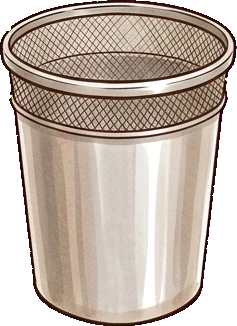
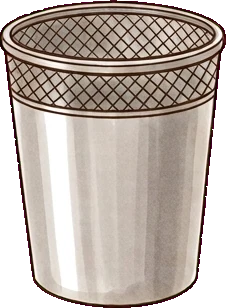
Object ve DEP chinh dien - het lech phoi canh
Kent: "no lech banh chanh luon, prompt bro gen anh co van de do". Dung:
prompt cu bao "cung goc nhin, chuc xuong 15 do" nen moi mon van co diem
tu rieng, rap vo la venh.

ob_sheet.py doi han brief: moi mon la hinh CAT GIAY - chinh dien thuan,
KHONG phoi canh, khong diem tu, khong thay mat tren. Mat ban prep thi
nhin thang TU TREN xuong, la mot mang phang.

Bo cuc xep lai theo kieu 2D: quay sau la mot dai ngang, noi/bon/bep
DUNG TREN mep quay (day = 40%), mat ban rap to phu nua duoi.

151 test xanh.

Claude-Session: https://claude.ai/code/session_014awNcPnGks6S8UpACG9mkS

diff --git a/src/data/scene-graph.js b/src/data/scene-graph.js
@@ -25,19 +25,21 @@ export const OB = 'art/ob/';
  *             không phải cả cái nồi. Bỏ trống = cả object.
  */
 export const KITCHEN = [
-  // Object GEN RIÊNG (scripts/ob_sheet.py — cả bộ vẽ trong một bản để chung góc, chung hướng sáng),
-  // KHÔNG còn cắt ra từ tranh bếp cũ. Vị trí do mình đặt, không phải đo theo tranh:
-  //   x, y, w, h = % khung · h tính theo đúng tỉ lệ ảnh để không bị méo
-  //   hit = ô thả nằm trong object (%, so với chính nó): chỉ lòng nồi / lòng bồn / mặt bếp mới nhận thả
-  { id: 'counter-back', art: `${OB}counter-back.webp`, layer: 'mid', x: -2, y: 41, w: 104, h: 36.1 },
-  { id: 'pot-blanch', art: `${OB}pot-blanch.webp`, layer: 'mid', x: 4, y: 25.5, w: 30, h: 18.1,
-    zone: 'pot', hit: { x: 14, y: 6, w: 72, h: 55 } },
-  { id: 'sink', art: `${OB}sink.webp`, layer: 'mid', x: 36, y: 25.5, w: 22, h: 18.6,
-    zone: 'sink', hit: { x: 10, y: 30, w: 80, h: 45 } },
-  { id: 'stove', art: `${OB}stove.webp`, layer: 'mid', x: 55, y: 26.5, w: 44, h: 16.9,
-    zone: 'burner', hit: { x: 8, y: 15, w: 60, h: 60 } },
-  // Mặt bàn ráp tô: nhìn từ TRÊN xuống (Kent: "ví dụ bàn prep đi"), không phải cái hộp nhìn nghiêng.
-  { id: 'prep-top', art: `${OB}prep-top.webp`, layer: 'fg', x: -9, y: 57, w: 118, h: 45.9 },
+  // Object GEN RIÊNG, vẽ DẸP CHÍNH DIỆN như hình cắt giấy (scripts/ob_sheet.py):
+  // cả bộ vẽ trong một bản, KHÔNG phối cảnh, không điểm tụ — nên ráp kiểu gì cũng khớp.
+  // Kent 21/09: "nó lệch banh chành luôn, prompt bro gen ảnh có vấn đề đó" — đúng, bản trước
+  // mỗi món một phối cảnh riêng nên ráp vô là vênh.
+  //   x, y, w, h = % khung · hit = ô thả nằm trong object (%, so với chính nó)
+  { id: 'counter-back', art: `${OB}counter-back.webp`, layer: 'mid', x: -2, y: 40, w: 104, h: 26 },
+  // Nồi trụng, bồn, bếp ĐỨNG TRÊN mặt quầy sau: đáy của chúng = mép trên quầy (40%).
+  { id: 'pot-blanch', art: `${OB}pot-blanch.webp`, layer: 'mid', x: 4, y: 26, w: 30, h: 14,
+    zone: 'pot', hit: { x: 8, y: 14, w: 84, h: 62 } },
+  { id: 'sink', art: `${OB}sink.webp`, layer: 'mid', x: 36, y: 25.5, w: 22, h: 14.5,
+    zone: 'sink', hit: { x: 6, y: 18, w: 88, h: 60 } },
+  { id: 'stove', art: `${OB}stove.webp`, layer: 'mid', x: 58, y: 30, w: 40, h: 10,
+    zone: 'burner', hit: { x: 4, y: 5, w: 60, h: 90 } },
+  // Mặt bàn ráp tô: nhìn TỪ TRÊN XUỐNG, một mảng phẳng (Kent: "ví dụ bàn prep đi").
+  { id: 'prep-top', art: `${OB}prep-top.webp`, layer: 'fg', x: -6, y: 56, w: 112, h: 44 },
 ];
 
 /** Bản gỗ: cùng bộ object, đổi chất liệu hai mặt bàn — cho Huế, Chợ Lớn, Lã Vọng… */

diff --git a/public/sw.js b/public/sw.js
@@ -1,5 +1,5 @@
 // Quán Bún PWA — cache-first cho tài nguyên build (tên file có hash), network-first cho trang; mở offline được sau lần tải đầu.
-const VERSION = 'qb-' + (self.registration ? self.registration.scope : '') + '-v98';
+const VERSION = 'qb-' + (self.registration ? self.registration.scope : '') + '-v99';
 const CORE = ['./', './index.html', './manifest.webmanifest', './icon-192.png', './icon-512.png'];
 self.addEventListener('install', (e) => { e.waitUntil(caches.open(VERSION).then((c) => c.addAll(CORE)).then(() => self.skipWaiting())); });
 self.addEventListener('activate', (e) => { e.waitUntil(caches.keys().then((ks) => Promise.all(ks.filter((k) => k !== VERSION).map((k) => caches.delete(k)))).then(() => self.clients.claim())); });

diff --git a/scripts/ob_sheet.py b/scripts/ob_sheet.py
@@ -13,36 +13,46 @@ PUB = os.path.join(R, "public", "art", "ob"); os.makedirs(PUB, exist_ok=True)
 ST  = os.path.join(R, "_sheet_status.json")
 
 # Goc nhin + net ve: PHAI giong het nhau o moi ban ve thi rap moi khop
-VIEW = ("Everything is drawn from exactly the same viewpoint: a cook standing at a kitchen counter, "
-        "looking straight ahead and slightly down, about fifteen degrees, no wide-angle distortion. "
-        "Light always comes from the upper left, soft. "
-        "Ink line art with warm marker and watercolour wash, brown ink outline, hand-drawn illustration, "
-        "flat even colours, no heavy shading. ")
-BG = ("The background is a flat solid MAGENTA #FF00FF and nothing else: no floor, no wall, no table, no shadow "
+VIEW = ("EVERY object is drawn completely FLAT and STRAIGHT ON, like a cut-paper prop for a 2D side-view game: "
+        "a pure front elevation, NO perspective, NO vanishing point, no three-quarter view, no receding side, "
+        "no visible top surface, nothing turned at an angle. Imagine each object pressed flat against the page "
+        "like a paper cut-out or a sticker. Light comes from the upper left, soft, no cast shadow. "
+        "Ink line art with warm marker and watercolour wash, brown ink outline, flat even colours, no heavy shading. ")
+BG = ("Never write anything: no numbers, no labels, no captions, no letters. "
+      "The background is a flat solid MAGENTA #FF00FF and nothing else: no floor, no wall, no table, no shadow "
       "on the magenta, no frame, no text, no labels, no numbers, no people, no hands. "
       "Every object floats separately with clear magenta space all around it, nothing touching or overlapping.")
 
 SHEETS = {
  # ten sheet: (aspect, so cot, danh sach (ten object, mo ta))
  "kit": ("IMAGE_ASPECT_RATIO_SQUARE", 3, [
-   ("pot-blanch", "a tall wide aluminium stock pot with two side handles, full of water, standing on a low black gas ring"),
-   ("sink", "a small square stainless steel sink with a tall curved chrome tap, on a plain metal cabinet"),
-   ("stove", "a black four-burner gas stove top with round cast-iron grates and four control knobs at the front"),
-   ("trash", "a round brushed metal kitchen bin with a mesh rim, empty"),
-   ("bowl-stack", "a neat stack of eight plain white ceramic noodle bowls"),
-   ("noodle-tray", "a rectangular stainless steel tray holding a coil of fresh white rice noodles"),
+   ("pot-blanch", "a tall wide aluminium stock pot with two side handles, seen from the front, the water surface showing as a simple flat oval at the top"),
+   ("sink", "a stainless steel sink unit seen from the front: a plain metal cabinet with a square basin in its top, the basin shown as a simple flat rectangle, and a tall curved chrome tap behind it"),
+   ("stove", "a black gas stove seen from the front: a flat black panel with four round cast-iron burner grates shown as plain circles in a row, and four control knobs below them"),
+   ("trash", "a round brushed metal kitchen bin with a mesh rim, seen from the front, its opening shown as a simple flat ellipse"),
+   ("bowl-stack", "a neat stack of eight plain white ceramic noodle bowls seen from the front, straight on"),
+   ("noodle-tray", "a rectangular stainless steel tray holding a coil of fresh white rice noodles, seen from the front, the tray shown as a plain rectangle"),
  ]),
  "furni": ("IMAGE_ASPECT_RATIO_PORTRAIT", 1, [
-   ("counter-back", "a long straight stainless steel back counter, seen straight on, with three plain metal cabinet doors under it and an empty flat top"),
-   ("counter-front", "a long straight pale cream stone work counter, seen straight on and slightly from above, completely empty, with a plain wooden front panel"),
+   ("counter-back", "a long low stainless steel counter seen dead straight on as a plain wide rectangle: three plain metal cabinet doors in a row and a thin darker strip along the top edge, nothing else"),
+   ("counter-front", "a long low counter seen dead straight on as a plain wide rectangle: a plain pale wooden front panel with a thin cream stone strip along the top edge, nothing else"),
  ]),
  "tops": ("IMAGE_ASPECT_RATIO_PORTRAIT", 1, [
-   ("prep-top", "a wide empty pale cream stone work surface, a kitchen counter top seen from above at a steep angle, a long rectangle running left to right, nothing on it"),
-   ("prep-top-wood", "a wide empty dark polished teak work surface, a kitchen counter top seen from above at a steep angle, a long rectangle running left to right, nothing on it"),
+   ("prep-top", "a wide empty pale cream stone table top seen from DIRECTLY ABOVE, drawn as one plain flat rectangle running left to right, no legs, no front panel, no thickness, nothing on it"),
+   ("prep-top-wood", "a wide empty dark polished teak table top seen from DIRECTLY ABOVE, drawn as one plain flat rectangle running left to right, no legs, no front panel, no thickness, nothing on it"),
+ ]),
+ "trays": ("IMAGE_ASPECT_RATIO_SQUARE", 2, [
+   ("noodle-tray", "a shallow rectangular stainless steel tray seen from the front, holding a neat coil of fresh white rice noodles"),
+   ("basket-noodle", "a small round wire noodle blanching basket with a long straight handle, seen from the front, holding a nest of white noodles"),
+   ("basket", "an empty small round wire noodle blanching basket with a long straight handle, seen from the front"),
+   ("tray-empty", "an empty shallow rectangular stainless steel tray seen from the front, nothing in it"),
+ ]),
+ "tray1": ("IMAGE_ASPECT_RATIO_SQUARE", 1, [
+   ("noodle-tray", "one shallow rectangular stainless steel tray seen from the front, holding a neat coil of fresh white rice noodles, drawn large in the middle of the picture"),
  ]),
  "furni-wood": ("IMAGE_ASPECT_RATIO_PORTRAIT", 1, [
-   ("counter-back-wood", "a long straight dark teak wood back counter, seen straight on, with three carved wooden cabinet doors under it and an empty flat top"),
-   ("counter-front-wood", "a long straight dark polished teak work counter, seen straight on and slightly from above, completely empty, with a plain wooden front panel"),
+   ("counter-back-wood", "a long low dark teak counter seen dead straight on as a plain wide rectangle: three carved wooden cabinet doors in a row and a thin darker strip along the top edge, nothing else"),
+   ("counter-front-wood", "a long low dark teak counter seen dead straight on as a plain wide rectangle: a plain dark wooden front panel with a thin polished strip along the top edge, nothing else"),
  ]),
 }
 

diff --git a/scripts/_ob_grid2.py b/scripts/_ob_grid2.py
@@ -1,0 +1,17 @@
+
+import os
+from PIL import Image
+R = r"F:\AntiGravity\Games\quan-bun"; PUB = os.path.join(R,"public","art","ob")
+names = ["pot-blanch","sink","stove","trash","bowl-stack","noodle-tray","counter-back","counter-front","prep-top","prep-top-wood","counter-back-wood","counter-front-wood"]
+C, W, H = 4, 145, 145
+sheet = Image.new("RGB", (C*W, ((len(names)+C-1)//C)*H), (225, 221, 214))
+for i, n in enumerate(names):
+    p = os.path.join(PUB, n + ".webp")
+    if not os.path.exists(p): continue
+    im = Image.open(p).convert("RGBA")
+    s = min((W-8)/im.width, (H-8)/im.height)
+    im = im.resize((max(1,int(im.width*s)), max(1,int(im.height*s))), Image.LANCZOS)
+    sheet.paste(im, ((i%C)*W + (W-im.width)//2, (i//C)*H + (H-im.height)//2), im)
+out = os.path.join(R, "art", "raw", "sheets", "_grid2.jpg")
+sheet.save(out, quality=52, optimize=True)
+print(os.path.getsize(out))
